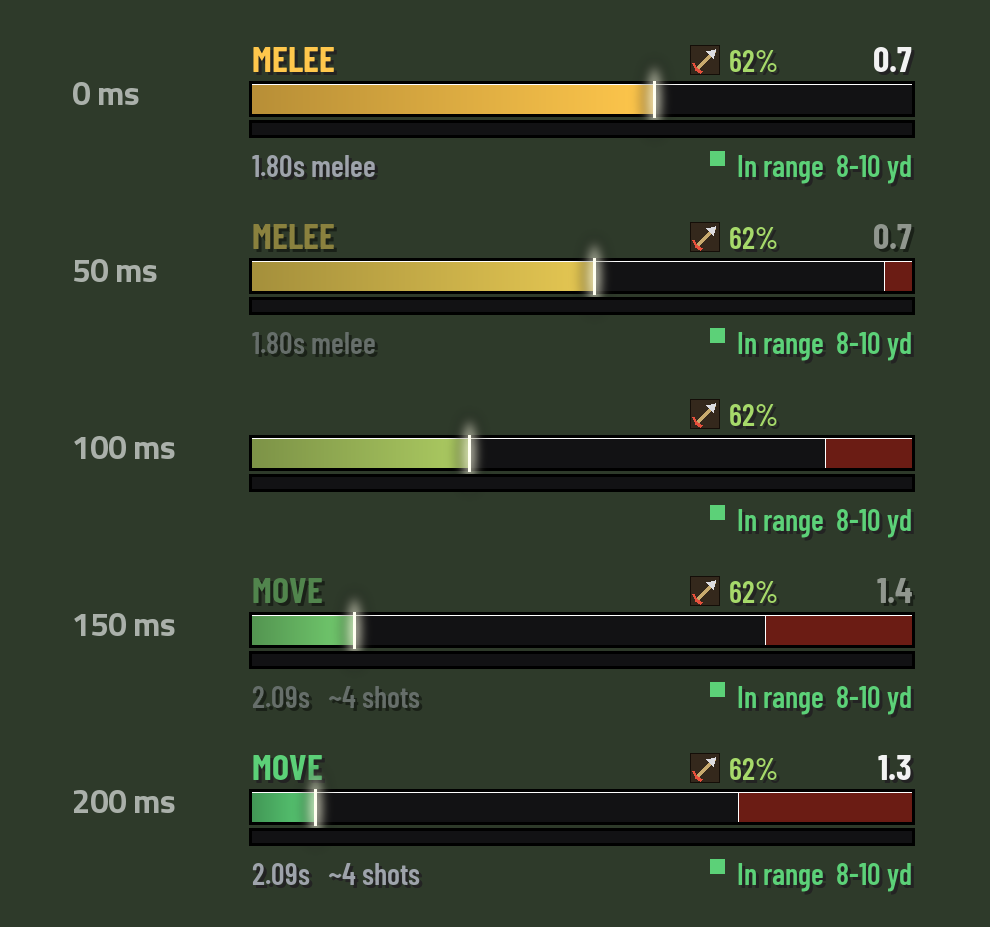
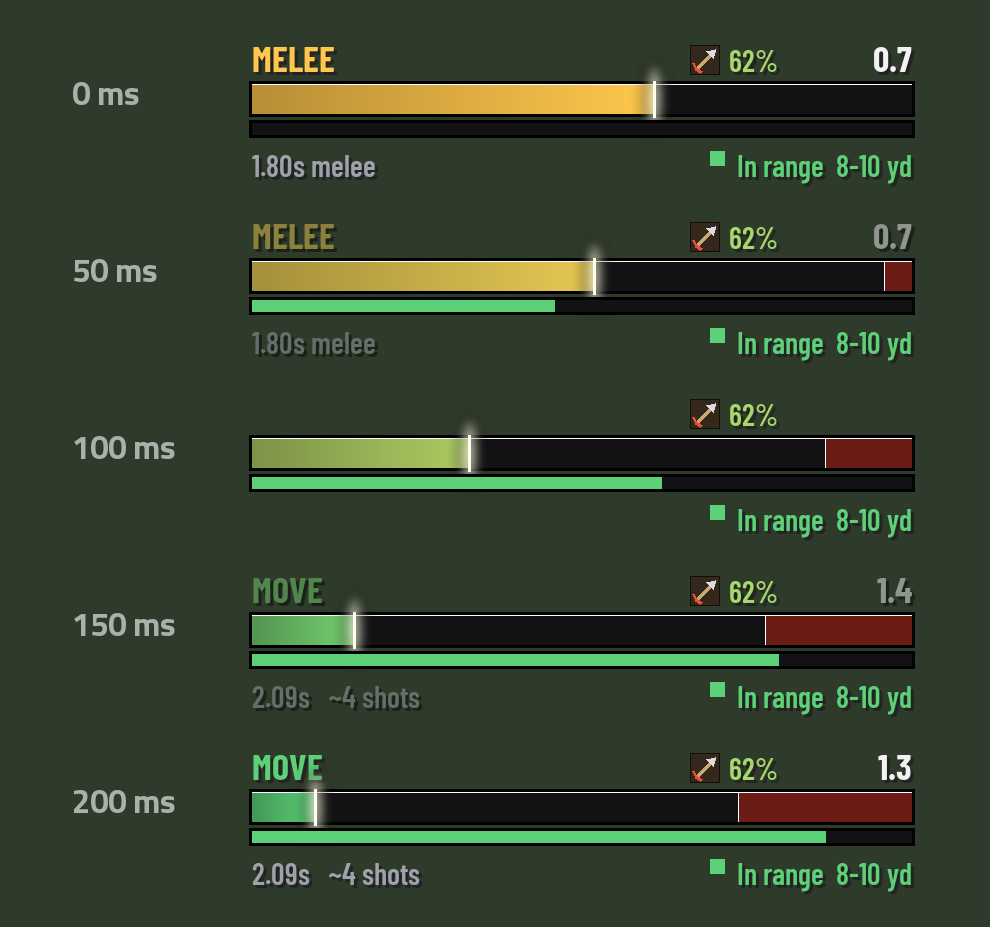
0.10.1: green means go; an overdue shot blinks
- The stand-still bar is green while you may move (full right after a shot,
  shrinking as the time to move runs out), red while you must stand still,
  and green again the moment the shot goes.
- Full red but no shot yet: the bar blinks, so it never reads as "done".
- The delay after the swing is learned from any shot you stood still through
  the whole window (was: still 1 s before the swing end), so a half second on
  top of the swing is picked up within three shots. Test covers that case.

diff --git a/tools/render_previews.py b/tools/render_previews.py
@@ -37,26 +37,30 @@ STAND_H = max(3, int(THICK * 0.4 + 0.5))  # the stand-still bar under the main o
 STAND_EXTRA = STAND_H + 3
 
 
-def stand_bar(img, x, y, length, value, vertical=False):
-    """The slim stand-still bar: track, 1 px border, fill in the stand colour."""
+def stand_bar(img, x, y, length, value, vertical=False, colour=None):
+    """The slim stand-still bar: track, 1 px border, fill (green: move, red: stand)."""
     d = ImageDraw.Draw(img)
+    colour = colour or STAND
     if vertical:
         rect(d, x - 1, y - 1, x + STAND_H + 1, y + length + 1, (0, 0, 0, 255))
         rect(d, x, y, x + STAND_H, y + length, rgb(TRACK))
         if value > 0:
-            rect(d, x, y + length * (1 - value), x + STAND_H, y + length, rgb(STAND))
+            rect(d, x, y + length * (1 - value), x + STAND_H, y + length, rgb(colour))
     else:
         rect(d, x - 1, y - 1, x + length + 1, y + STAND_H + 1, (0, 0, 0, 255))
         rect(d, x, y, x + length, y + STAND_H, rgb(TRACK))
         if value > 0:
-            rect(d, x, y, x + length * value, y + STAND_H, rgb(STAND))
+            rect(d, x, y, x + length * value, y + STAND_H, rgb(colour))
 
 
 def stand_value(value, speed, window):
-    """How full the stand-still bar is at this point of the swing (standing still)."""
+    """The stand-still bar at this point of the swing (standing still): (fill, colour)."""
     if window <= 0:
-        return 0
-    return max(0.0, min(1.0, (value * speed - (speed - window)) / window))
+        return 0, STAND
+    move_for = speed - window
+    if value * speed < move_for:
+        return max(0.0, 1 - value * speed / move_for), MOVE
+    return max(0.0, min(1.0, (value * speed - move_for) / window)), STAND
 
 
 def rgb(c, a=255):
@@ -191,7 +195,8 @@ def standard(img, ox, oy, status, scolour, countdown, value, pct, state, distanc
         text(d, ox + WIDTH, base, countdown, FONT_SIZE, rgb(TEXT), anchor="rs", path=FONT_BOLD, alpha=text_alpha)
     ammo(d, ox + WIDTH - count_slot - ammo_w, base, pct)
     bar(img, ox, oy + top, WIDTH, THICK, value, scolour, speed=speed, window=window)
-    stand_bar(img, ox, oy + top + THICK + 3, WIDTH, stand_value(value, speed, window) if stand is None else stand)
+    sv, sc = stand_value(value, speed, window) if stand is None else (stand, STAND)
+    stand_bar(img, ox, oy + top + THICK + 3, WIDTH, sv, colour=sc)
     below = oy + top + THICK + STAND_EXTRA + GAP + SMALL
     text(d, ox, below, info, SMALL, rgb(MUTED), anchor="ls", alpha=text_alpha)
     range_text(d, ox + WIDTH, below, state, distance)
@@ -257,7 +262,8 @@ def render_layouts():
     text(d, left - 6, by + THICK / 2, "STAND STILL", FONT_SIZE, rgb(STAND), anchor="rm", path=FONT_BOLD)
     bar(img, left, by, WIDTH, THICK, 0.86, STAND)
     text(d, left + WIDTH + 6, by + THICK / 2, "0.29", FONT_SIZE, rgb(TEXT), anchor="lm", path=FONT_BOLD)
-    stand_bar(img, left, by + THICK + 3, WIDTH, stand_value(0.86, 2.09, WINDOW))
+    sv, sc = stand_value(0.86, 2.09, WINDOW)
+    stand_bar(img, left, by + THICK + 3, WIDTH, sv, colour=sc)
     ax = left + WIDTH + 6 + count_w + 6
     arrow_icon(d, ax, by + THICK / 2 - SMALL / 2, SMALL)
     text(d, ax + SMALL + 3, by + THICK / 2, "62%", SMALL, hexrgb("a6d96a"), anchor="lm")
@@ -269,7 +275,8 @@ def render_layouts():
     vx, vy = 420, 28
     length = 210
     bar(img, vx, vy, length, THICK, 0.45, MOVE, vertical=True)
-    stand_bar(img, vx + THICK + 3, vy, length, 0, vertical=True)
+    sv, sc = stand_value(0.45, 2.09, WINDOW)
+    stand_bar(img, vx + THICK + 3, vy, length, sv, vertical=True, colour=sc)
     tx = vx + THICK + 6 + STAND_EXTRA
     text(d, tx, vy + FONT_SIZE, "MOVE", FONT_SIZE, rgb(MOVE), anchor="ls", path=FONT_BOLD)
     text(d, tx, vy + 2 * FONT_SIZE + 3, "0.6", FONT_SIZE, rgb(TEXT), anchor="ls", path=FONT_BOLD)

diff --git a/tests/test_timer.py b/tests/test_timer.py
@@ -1014,6 +1014,40 @@ def main():
     g.fire("PLAYER_ENTERING_WORLD")
     g.tick(7010)
 
+    # --- Half a second on top of the swing: learned from three shots ------------------
+    g.fire("PLAYER_ENTERING_WORLD")
+    lua.eval("function(c) c.stand, c.early = {}, {} end")(ns.calib)
+    g.fire("START_AUTOREPEAT_SPELL")
+    g.playerSpeed = 0
+    g.setClock(7500.0)
+    g.tick(7500.05)
+    g.fire("PLAYER_SWING", 2.0, 2)
+    last = g.GetTime()
+    g.tick(last + 2.1)  # swing over, standing still, no shot yet
+    col, val = ns.StandState()
+    check("before learning: overdue shot blinks the stand-still bar", col == "stand" and val == 1
+          and ns.standBar.alpha < 1)
+    for i in range(3):
+        g.tick(last + 2.45)
+        g.setClock(last + 2.5)
+        g.fire("PLAYER_SWING", 2.0, 2)
+        last = g.GetTime()
+    check("learned: shots come 0.5 s after the swing", abs(ns.EarlyDelay() - 0.5) < 1e-6)
+    g.tick(last + 2.1)
+    col, val = ns.StandState()
+    check("after learning: at the old swing end the bar is not full yet", col == "stand" and val < 1
+          and ns.standBar.alpha == 1 and "STAND STILL" in g.shownText() and ns.ui.countdown.text == "0.40")
+    g.tick(last + 2.49)
+    check("after learning: full right as the shot goes", ns.StandState()[1] > 0.97)
+    g.setClock(last + 2.5)
+    g.fire("PLAYER_SWING", 2.0, 2)
+    g.tick(last + 2.52)
+    col, val = ns.StandState()
+    check("shot gone: green, go", col == "move" and val > 0.97 and ns.standBar.alpha == 1)
+    g.fire("STOP_AUTOREPEAT_SPELL")
+    g.playerSpeed = None
+    lua.eval("function(c) c.stand, c.early = {}, {} end")(ns.calib)
+
     # --- The stand-still bar learns your real stand-still time ------------------------
     g.fire("PLAYER_ENTERING_WORLD")
     lua.eval("function(c) c.stand, c.early = {}, {} end")(ns.calib)
@@ -1042,8 +1076,17 @@ def main():
         g.fire("PLAYER_SWING", 2.0, 2)
         last = g.GetTime()
     check("learned: delay after the swing when standing still", abs(ns.EarlyDelay() - 0.03) < 1e-6)
+    # Right after the shot: green and full, you may move; it shrinks toward the stop.
+    g.tick(last + 0.01)
+    col, val = ns.StandState()
+    check("after the shot: stand-still bar green and full", col == "move" and val > 0.98)
+    g.tick(last + (2.03 - 0.62) / 2)
+    col, val = ns.StandState()
+    check("free to move: green, half gone halfway", col == "move" and abs(val - 0.5) < 0.03)
     # The bar now follows the measured numbers.
     g.tick(last + 2.03 - 0.62 + 0.31)  # halfway through the stand-still time
+    col, _ = ns.StandState()
+    check("stand still: the bar turns red", col == "stand")
     check("stand-still bar: half full halfway", abs(ns.standBar.value - 0.5) < 0.03)
     check("countdown exact to the hundredth while standing", ns.ui.countdown.text == "0.31")
     g.playerSpeed = 7

diff --git a/README.md b/README.md
@@ -76,7 +76,7 @@ The bar is one swing long:
 | **Red window at the end** | Stand still here. It is the engine's half second, plus your ping (your "I stopped" has to reach the server). |
 | **Red, "STAND STILL"** | The shot is coming: do not move. The countdown shows how long until it fires. |
 | **Red, "STOP"** | You are moving where you must stand still. The shot waits until you stop. |
-| **Slim bar underneath** | The stand-still bar: it fills over exactly the time you must stand still and is full as the arrow or bullet leaves. |
+| **Slim bar underneath** | Green: you may move; it shrinks as that time runs out. Red: stand still; it fills over exactly that time and is full as the arrow or bullet leaves. Then it turns green again: go. |
 | **Spark** | Where you are in the swing. It pulses while a shot is overdue. |
 | **Flash** | A short flash across the bar when the shot fires. |
 
@@ -86,9 +86,10 @@ stand still, the countdown is the real time to the shot: the end of the swing, o
 half second (plus ping) after you stopped if you stopped late. Without that, the shot would
 seem to come "late" for no reason.
 
-**The stand-still bar shows exactly how long to stand still.** It starts the moment you
-have to stand still, or the moment you stop if you stop late, and it is full as the shot
-goes. While you stand, the countdown runs in hundredths (`0.29`). If you move, it empties
+**The stand-still bar shows exactly how long to stand still.** Right after a shot it is full
+and green: move. It shrinks as your time to move runs out, then turns red and fills from the
+moment you have to stand still (or the moment you stop, if you stop late). It is full as the
+shot goes, and turns green again: go. While you stand, the countdown runs in hundredths (`0.29`). If you move, it empties
 and says STOP. The time is not a guess: the addon measures it on your own shots (from the
 moment you stopped to the moment the arrow left), so your ping and the server's timing are
 in it. Until it has three such shots it uses the half second plus your ping. `/hst timing`
